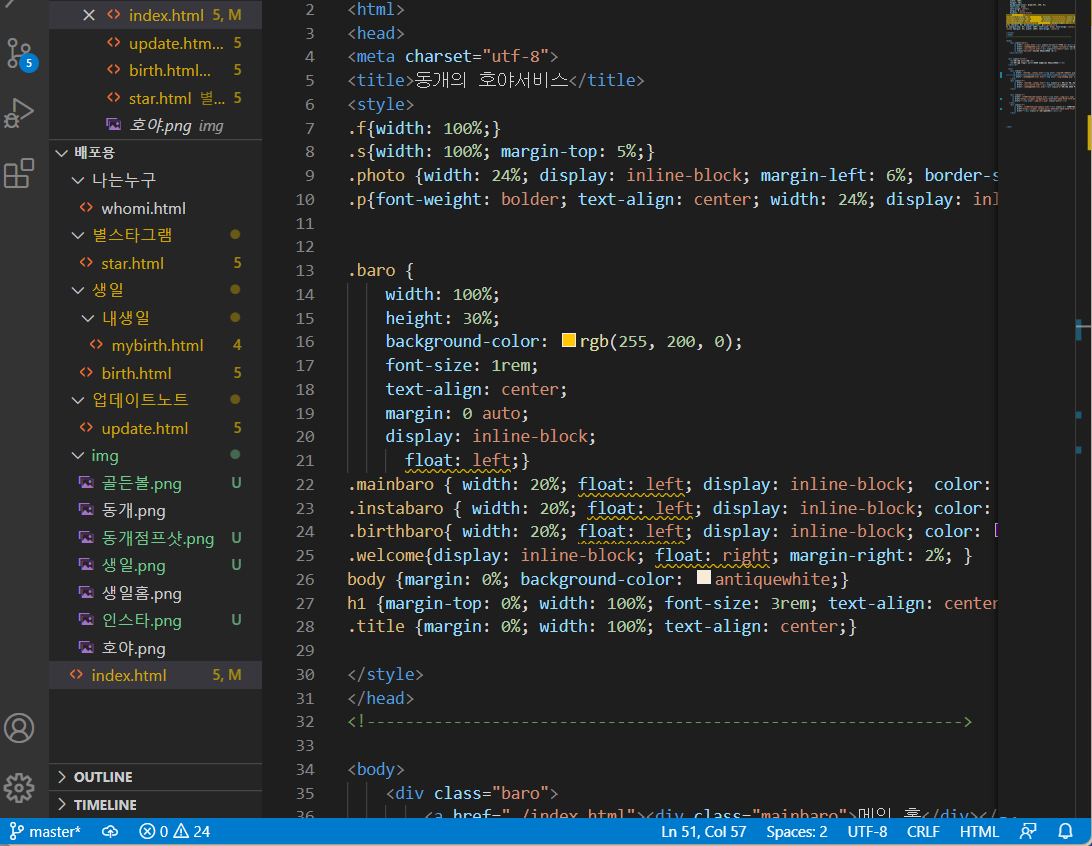
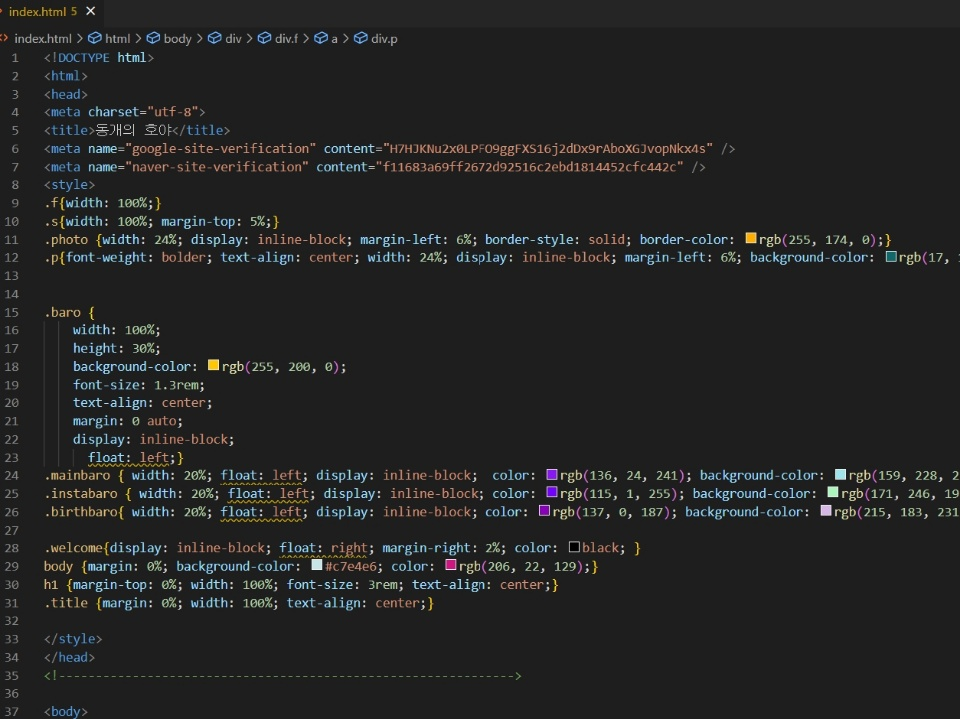
first commit

Changed region(s): [[0.0, 0.0, 1.0, 1.0], [0.9062, 0.0, 1.0, 0.1836]]

diff --git a/index.html b/index.html
@@ -15,18 +15,18 @@
 .baro {
     width: 100%;
     height: 30%;
-    background-color: rgb(255, 200, 0);
+    background-color: rgb(237, 11, 237);
     font-size: 1.3rem;
     text-align: center;
     margin: 0 auto;
     display: inline-block;
       float: left;}
-.mainbaro { width: 20%; float: left; display: inline-block;  color: rgb(136, 24, 241); background-color: rgb(159, 228, 235); font-weight: bolder;}
-.instabaro { width: 20%; float: left; display: inline-block; color: rgb(115, 1, 255); background-color: rgb(171, 246, 191); font-weight: bolder; }
-.birthbaro{ width: 20%; float: left; display: inline-block; color: rgb(137, 0, 187); background-color: rgb(215, 183, 231);  font-weight: bolder;}
+.mainbaro { width: 11%; float: left; display: inline-block;  color: rgb(255, 255, 255); background-color: #654073; font-weight: bolder;}
+.instabaro { width: 11%; float: left; display: inline-block; color: rgb(255, 255, 255); background-color: #654073; font-weight: bolder; }
+.birthbaro{ width: 11%; float: left; display: inline-block; color: rgb(255, 255, 255); background-color: #654073;  font-weight: bolder;}
 
 .welcome{display: inline-block; float: right; margin-right: 2%; color: black; }
-body {margin: 0%; background-color: #c7e4e6; color: rgb(206, 22, 129);}
+body {margin: 0%; background-color: #f4d8bd; color: rgb(206, 22, 129);}
 h1 {margin-top: 0%; width: 100%; font-size: 3rem; text-align: center;}
 .title {margin: 0%; width: 100%; text-align: center;}
 
@@ -36,9 +36,9 @@ h1 {margin-top: 0%; width: 100%; font-size: 3rem; text-align: center;}
 
 <body>
     <div class="baro">     
-        <a href="./index.html"><div class="mainbaro">메인 🏠</div></a>
-        <a href="./별스타그램/star.html"><div class="instabaro">연락하기 🏠</div></a>
-        <a href="./생일/birth.html"><div class="birthbaro">생일 🏠</div></a>
+        <a href="./index.html"><div class="mainbaro">메인</div></a>
+        <a href="./별스타그램/star.html"><div class="instabaro">연락</div></a>
+        <a href="./생일/birth.html"><div class="birthbaro">생일</div></a>
         <a class="welcome">방문을 환영합니다 :D</a>
    </div><br><br>
 
@@ -76,12 +76,12 @@ h1 {margin-top: 0%; width: 100%; font-size: 3rem; text-align: center;}
     <div class="s">
       <a href="./업데이트노트/update.html"><img src="./img/업뎃.png" class="photo" alt="동개소개 바로가기"></a>
       <a href=""> <img src="./img/수리중.jpg" class="photo"></a>
-      <a href=""><img src="./img/수리중.jpg" class="photo"></a>
+      <a href="./친한친구/로그인.html"><img src="./img/수리중.jpg" class="photo"></a>
    </div>
     <div class="f">
         <a href="./업데이트노트/update.html"><div class="p"> 업데이트 내역</div></a>
-        <a href=""><div class="p">업데이트 예정</div></a>
-        <a href=""><div class="p">업데이트 예정</div></a>
+        <a href=""><div class="p">게시판 예정</div></a>
+        <a href="./친한친구/로그인.html"><div class="p">로그인 예정</div></a>
     </div>
 
     <br>

diff --git a/친한친구/로그인.html b/친한친구/로그인.html
@@ -1,0 +1,46 @@
+<!DOCTYPE html>
+<html>
+<head>
+<meta charset="utf-8">
+<title>로그인</title>
+<meta name="google-site-verification" content="H7HJKNu2x0LPFO9ggFXS16j2dDx9rAboXGJvopNkx4s" />
+<meta name="naver-site-verification" content="f11683a69ff2672d92516c2ebd1814452cfc442c" />
+<style>
+
+
+.baro {
+    width: 100%;
+    height: 30%;
+    background-color: rgb(253, 14, 253);
+    font-size: 1.3rem;
+    text-align: center;
+    margin: 0 auto;
+    display: inline-block;
+      float: left;}
+.mainbaro { width: 11%; float: left; display: inline-block;  color: rgb(255, 255, 255); background-color: #654073; font-weight: bolder;}
+.instabaro { width: 11%; float: left; display: inline-block; color: rgb(255, 255, 255); background-color: #654073; font-weight: bolder; }
+.birthbaro{ width: 11%; float: left; display: inline-block; color: rgb(255, 255, 255); background-color: #654073;  font-weight: bolder;}
+
+.welcome{display: inline-block; float: right; margin-right: 2%; color: black; }
+body {margin: 0%; background-color: #f4d8bd; color: rgb(206, 22, 129);}
+h1 {margin-top: 0%; width: 100%; font-size: 3rem; text-align: center;}
+.title {margin: 0%; width: 100%; text-align: center;}
+
+</style>
+</head>
+<!-------------------------------------------------------------->
+
+<body>
+    <div class="baro">     
+        <a href="../index.html"><div class="mainbaro">메인</div></a>
+        <a href="./별스타그램/star.html"><div class="instabaro">연락</div></a>
+        <a href="./생일/birth.html"><div class="birthbaro">생일</div></a>
+        <a class="welcome">방문을 환영합니다 :D</a>
+   </div><br><br>
+
+
+  <div class="title">
+    <h1> 로그인하기 </h1>
+  </div><br>
+
+</div>

diff --git a/업데이트노트/update.html b/업데이트노트/update.html
@@ -14,7 +14,7 @@
     text-align: center;
     margin: 0 auto;
     display: inline-block;
-      float: left;}
+    float: none;}
 .mainbaro { width: 20%; float: left; display: inline-block;  color: rgb(136, 24, 241); background-color: rgb(159, 228, 235); font-weight: bolder;}
 .instabaro { width: 20%; float: left; display: inline-block; color: rgb(115, 1, 255); background-color: rgb(171, 246, 191); font-weight: bolder; }
 .birthbaro{ width: 20%; float: left; display: inline-block; color: rgb(137, 0, 187); background-color: rgb(215, 183, 231);  font-weight: bolder;}
@@ -43,6 +43,9 @@ body {margin: 0%; background-color: rgb(155, 193, 226);}
         <a href="../생일/birth.html"><div class="birthbaro">생일 🏠</div></a>
         <a class="welcome">동개의 업뎃일지</a>
    </div>
+
+   
+
 
 
   <h1 class="h">업데이트 노트</h1><br>
